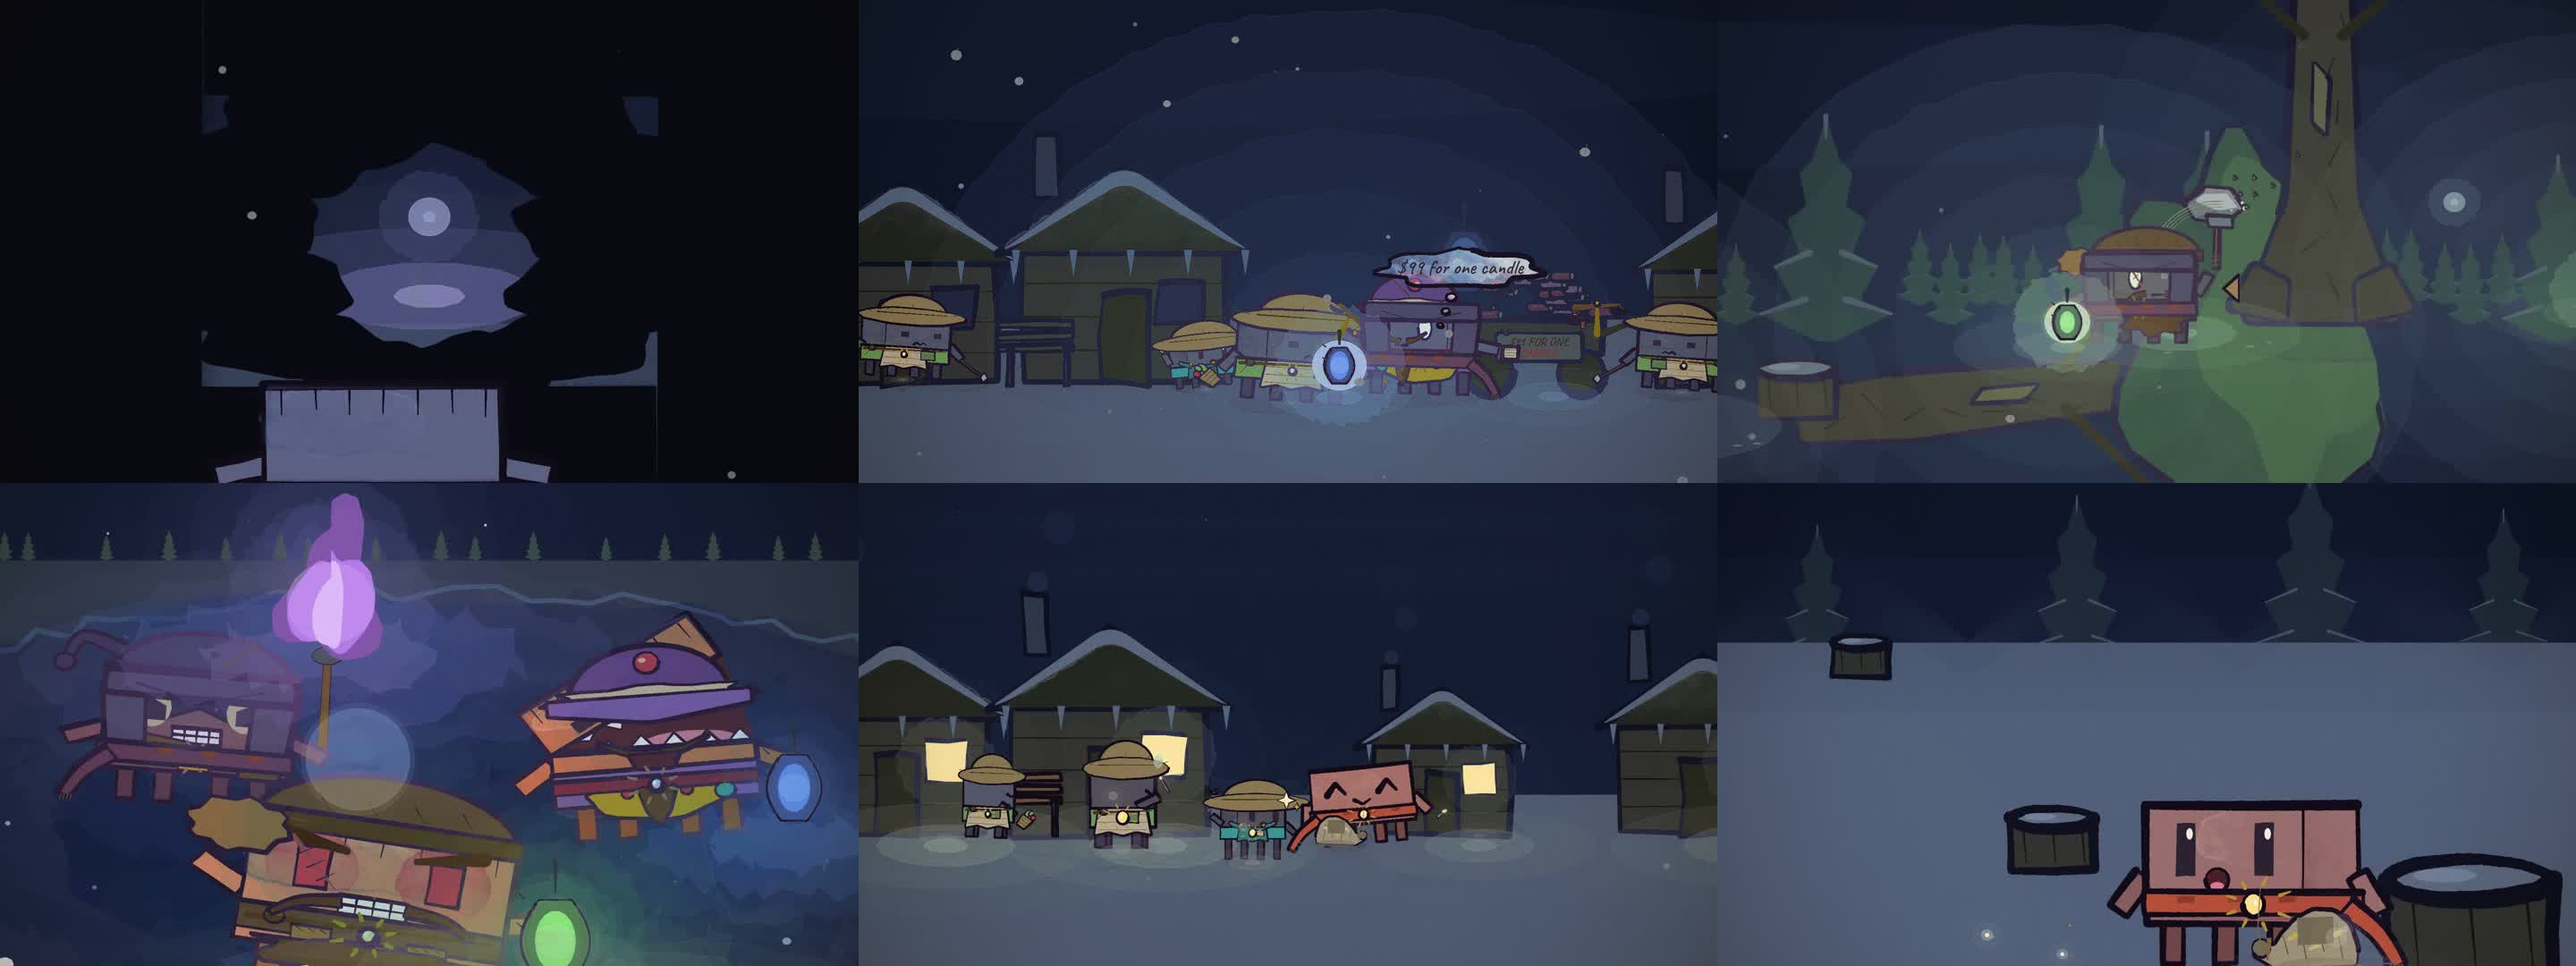
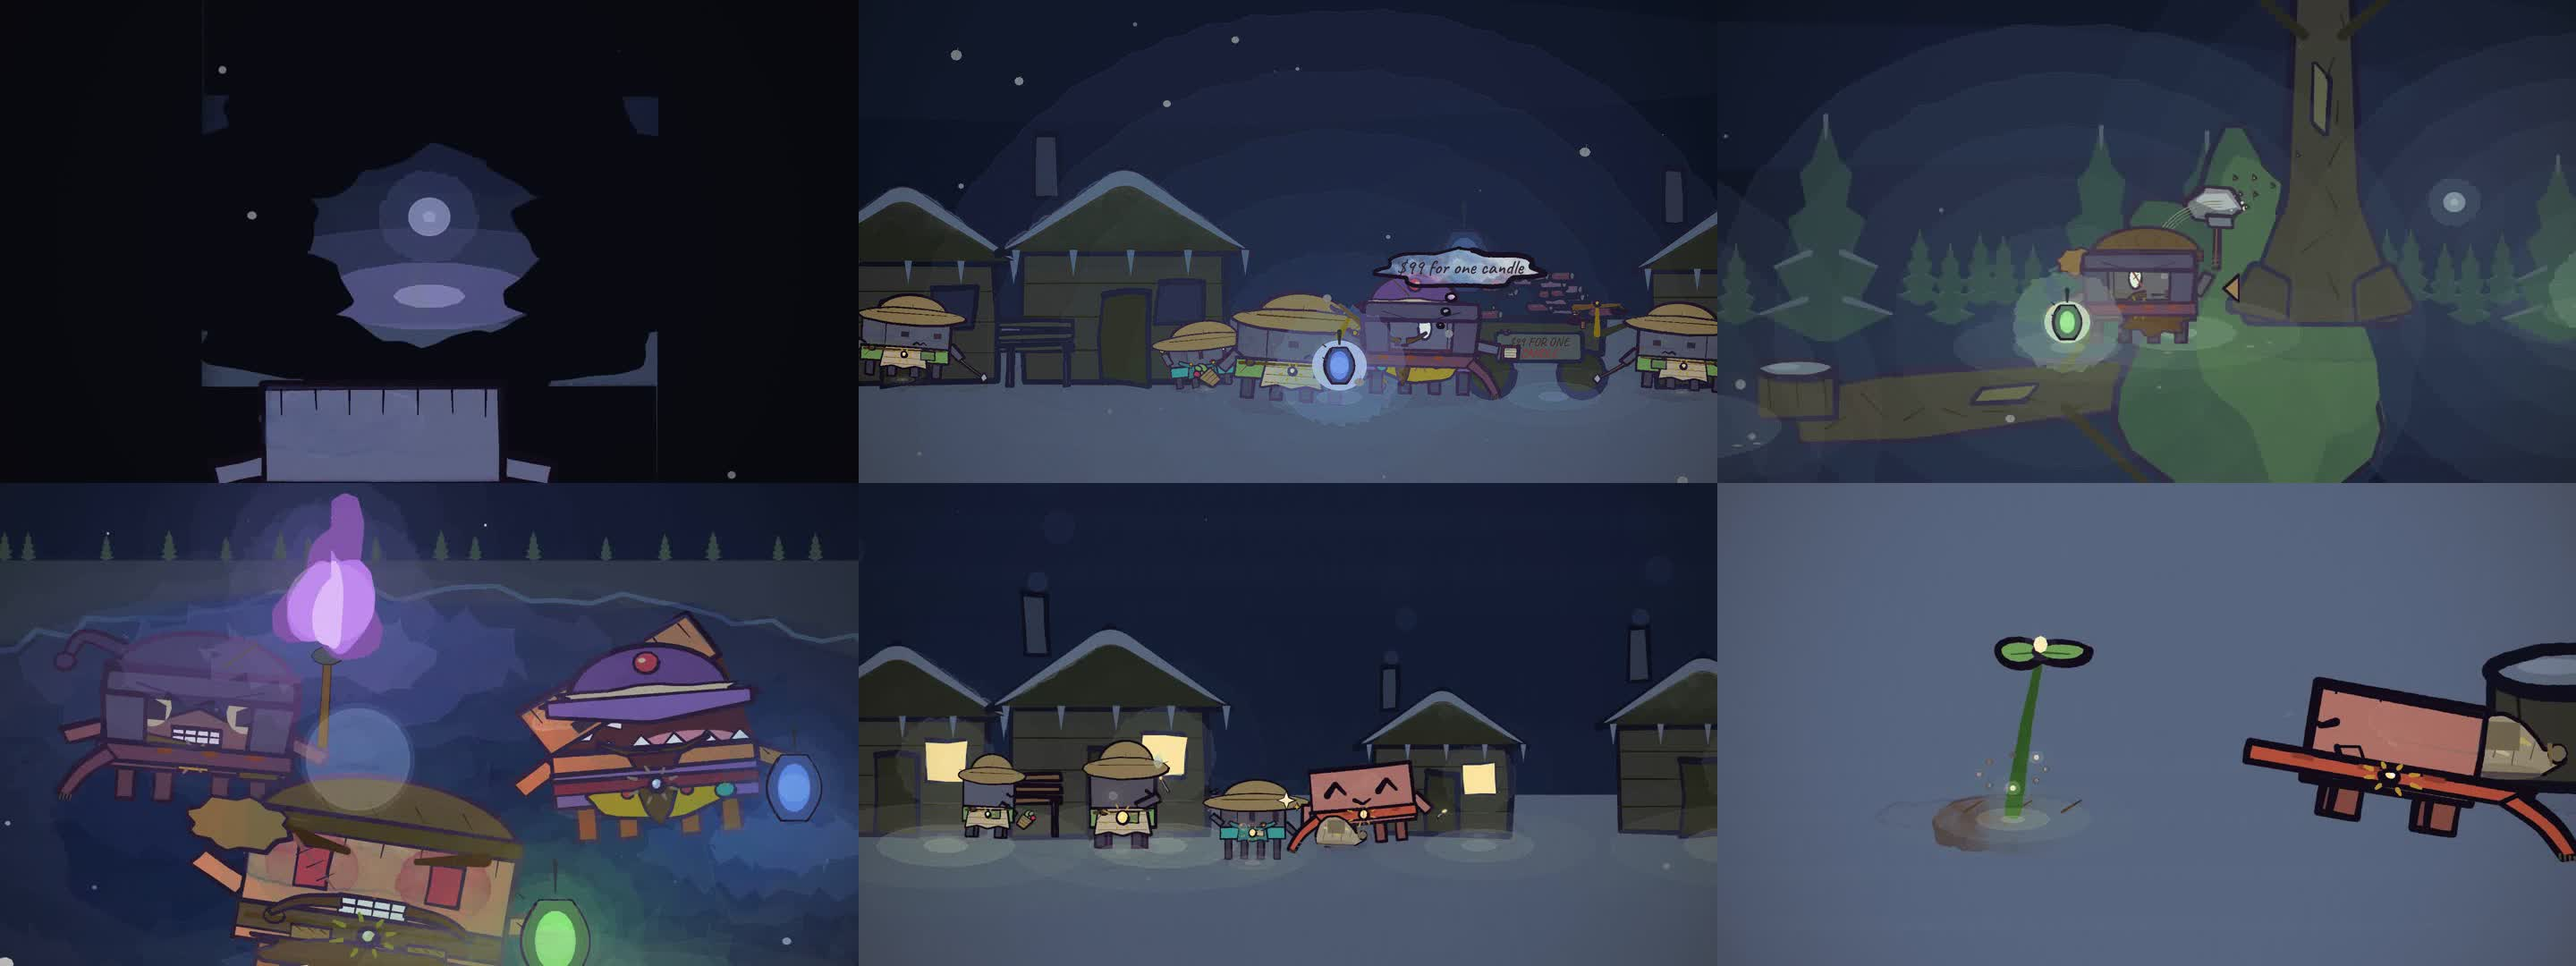
Lead with the engine and the library, not with one film
The README read like a single-film repository. It now opens on what the repo holds
-- engine, character rig, prop library, measuring sheets, films -- and lists the
film as work 01 with the catalogue explicitly continuing.

Adds four template sheets as previews, since the cast lineup, the five-view turntable
and the expression rig are the most useful thing here and were previously invisible
behind a directory listing.

Part One's closing frame is now the sprout breaking the ground rather than the sack
glowing, which is the image that actually lands.

Changed region(s): [[0.6562, 0.4889, 1.0, 1.0]]

diff --git a/README.md b/README.md
@@ -2,15 +2,34 @@
 
 ![Seed of The Light](stills/hero.jpg)
 
-Hand-painted animation, drawn by code. No diffusion model, no image generator — every pixel on
-screen is painted at render time by a p5.brush stroke engine.
+A hand-painted 2D animation engine, and the films made with it.
 
-The engine is separate from the films. A film is one scene file, one entry page and one config
-row; the engine never learns what any of them are about.
+No diffusion model, no image generator: every pixel is painted at render time by a p5.brush
+stroke engine. Alongside the renderer sits a character system — one body, rigged for five views,
+an expression table, beat-locked gaits — and a prop library that any new film draws from.
 
-## Seed of The Light
+## What is here
 
-*a short film in two parts* · 8 min 09 s · 1920×1080 @ 24 fps · 11,732 frames
+- **The engine** — `src/core.js`, `render.mjs`: stroke primitives, paper texture, camera, a
+  headless parallel frame renderer
+- **The character** — `src/clawd.js`, `src/jobs.js`: one rig, dressed as a cast of twelve
+- **The prop library** — `src/props.js`: trees, lanterns, torches, snow, light pools, face light
+- **The template sheets** — `templates/`: every asset rendered on a measuring chart before use
+- **The films** — `src/scenes/`: each one a scene file, an entry page and a config row
+
+## Works
+
+| # | Title | Runtime | Frames |
+|---|---|---|---|
+| 01 | **Seed of The Light** — a short film in two parts | 8′09″ | 11,732 |
+
+More follow. The engine is not written to any one of them.
+
+---
+
+## 01 · Seed of The Light
+
+*8 min 09 s · 1920×1080 @ 24 fps · 11,732 frames*
 
 A light-bringer crosses a starving snow village and meets three men who sell light as bait — a
 violet torch, a blue lantern, a green lamp. On the stump-field where the forest used to be, he
@@ -25,6 +44,32 @@ buries the one thing he has left. Years later, a city has grown up around the tr
 ![Part Two](stills/part-two.jpg)
 
 Watch: <https://www.bilibili.com/video/BV1ahp96cEND/>
+
+---
+
+## The library
+
+Nothing in these films is drawn freehand on the fly. Every character, prop and expression is
+rendered onto a chart first, with a grey reference Clawd standing one protagonist tall in each
+cell — so scale is read off the sheet, not guessed on set.
+
+**The cast** — twelve roles on one body:
+
+![Character cast](stills/sheet-jobs.jpg)
+
+**Five views**, so a turn is interpolated instead of popping:
+
+![Views](stills/sheet-views.jpg)
+
+**Expressions**, each a full rig of mouth, eyes, lids, blush and posture:
+
+![Expressions](stills/sheet-emotions.jpg)
+
+**Props**, sized against the same reference figure:
+
+![Props](stills/sheet-props.jpg)
+
+The full set is in [`templates/`](templates).
 
 ## How it works
 
@@ -44,17 +89,18 @@ No light in these films illuminates nothing.
 
     src/
       core.js        stroke + fill primitives, paper texture, camera transform
-      clawd.js       the character: 5 views, mouth/eye/posture/light layers, expression table, gait
+      clawd.js       the character: 5 views, mouth/eye/posture/light layers, expressions, gait
       props.js       prop library: trees, lanterns, torches, snow, glows, face light
       jobs.js        costumes: one body, dressed as villager, huckster, thief, lumberjack, santa
       timeline.js    maps each shot on the time axis to a scene function
       config.js      per-film duration / bpm / first beat / audio
       scenes/
         film.js      film-agnostic helpers: sky, ground, snow, captions, transitions
-        snow.js      Part One          tree.js      Part Two
+        snow.js      Seed of The Light, part one
+        tree.js      Seed of The Light, part two
     render.mjs       headless Chrome renderer: contact sheets, frame batches, encode
-    templates/       the character and prop sheets every asset was checked against
-    stills/          frames from the finished film
+    templates/       the measuring sheets every asset was checked against
+    stills/          frames from the finished films
 
 ## Quick start
 
@@ -65,7 +111,8 @@ No light in these films illuminates nothing.
     node render.mjs --frames --range=0:335.1 --workers=4       # render frames (resumable)
     node render.mjs --encode --out=out/part-one.mp4            # frames -> mp4
 
-Pass `--studio=studio2.html` for Part Two, and `--audio=<file>` to `--encode` to mux sound.
+Pass `--studio=studio2.html` for the second half of this film, and `--audio=<file>` to `--encode`
+to mux sound.
 
 ## Making a new film
 
@@ -80,7 +127,7 @@ it goes into the library — the library is meant to grow.
 
 - `docs/ANIMATION_GUIDE.md` — the rule set: composition, light, scale, continuity, what counts as a bug
 - `docs/MV_WORKFLOW.md` — the end-to-end process from a song to a finished film
-- `docs/SCRIPT_V3.md` — shot-by-shot script of this film
+- `docs/SCRIPT_V3.md` — shot-by-shot script of *Seed of The Light*
 
 ## Credits
 
